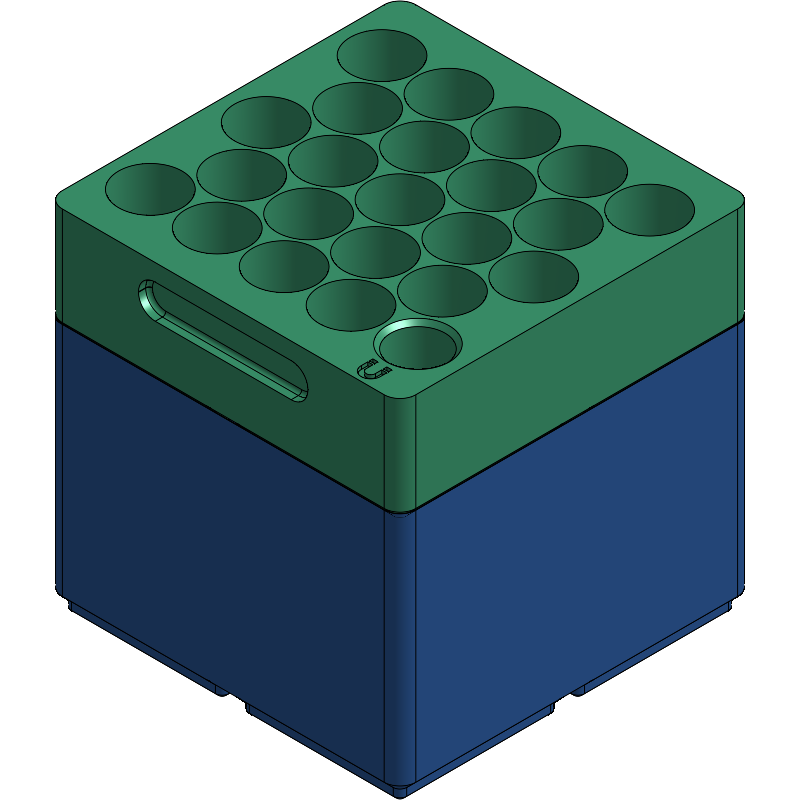
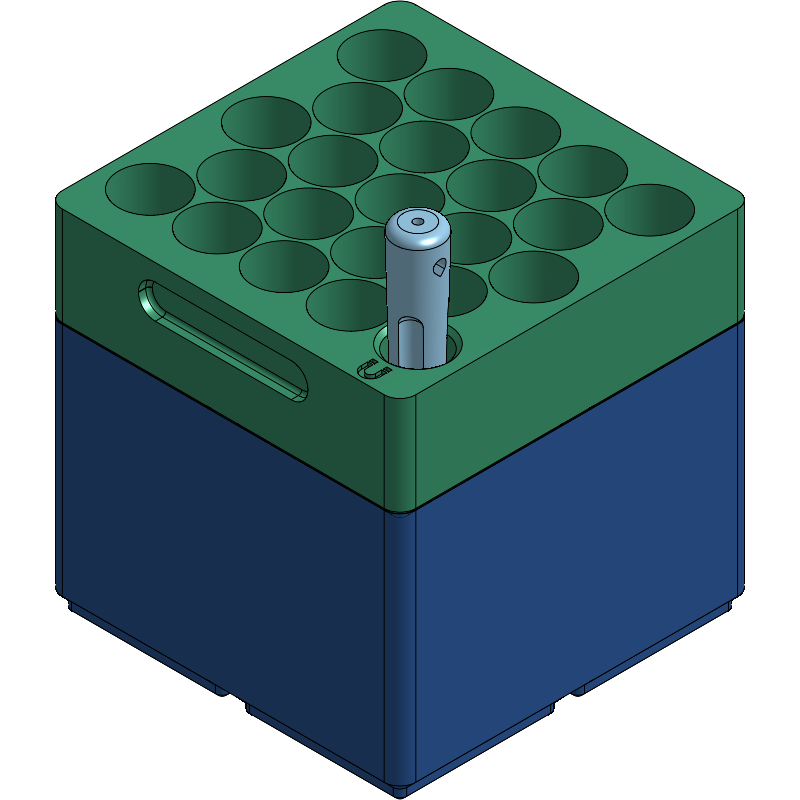
feat: integrate Battery Grabber (Main Body + Support Fins) into Onshape project and assembly

Changed region(s): [[0.4688, 0.25, 0.5625, 0.4688]]

diff --git a/src/build_onshape_model.py b/src/build_onshape_model.py
@@ -7,12 +7,47 @@ from pathlib import Path
 from typing import Any
 
 from src.featurescript_generator import generate_feature_studio_code
+from src.gridfinity_spec import DIMENSIONS, get_honeycomb_slots
 from src.onshape_client import OnshapeClient
 
 
 FEATURE_STUDIO_NAME = "Gridfinity AA Holder Generator"
 PART_STUDIO_NAME = "AA Battery Holder Bins"
+GRABBER_PART_STUDIO_NAME = "Battery Grabber"
 ASSEMBLY_NAME = "AA Battery Holder Assembly"
+
+GRABBER_SOURCE_DID = "c8113e21846b3e243f4047b0"
+GRABBER_SOURCE_WID = "85c21653a7b2a35730264c4a"
+GRABBER_SOURCE_EID = "efc09f3688cba75a14ed5637"
+
+
+def _get_grabber_assembly_transform() -> list[float]:
+    """Return 4x4 row-major transform (meters) seating Main Body magnet-down in the grabber pocket."""
+    grabber_slot = next(s for s in get_honeycomb_slots() if s.kind == "GRABBER")
+    tx_m = grabber_slot.x_mm / 1000.0
+    ty_m = grabber_slot.y_mm / 1000.0
+    # 180 deg rotation about X-axis: local Z=105mm (magnet head) -> Z=4mm floor; local Z=0mm (pommel) -> Z=109mm
+    tz_m = (DIMENSIONS["bottom_floor_z_mm"] + DIMENSIONS["grabber_length_mm"]) / 1000.0
+    return [
+        1.0,  0.0,  0.0, tx_m,
+        0.0, -1.0,  0.0, ty_m,
+        0.0,  0.0, -1.0, tz_m,
+        0.0,  0.0,  0.0, 1.0,
+    ]
+
+
+def _ensure_grabber_part_studio(client: OnshapeClient) -> str:
+    """Find or copy the Battery Grabber Part Studio (Main Body + Support Fins) into the document."""
+    for el in client.get_elements():
+        if el.get("elementType") == "PARTSTUDIO" and el.get("name") == GRABBER_PART_STUDIO_NAME:
+            return el["id"]
+    copied = client.copy_element_from_document(
+        source_did=GRABBER_SOURCE_DID,
+        source_wid=GRABBER_SOURCE_WID,
+        source_eid=GRABBER_SOURCE_EID,
+    )
+    return copied["id"]
+
 
 
 def _ensure_feature_studio(client: OnshapeClient) -> tuple[str, str]:
@@ -99,31 +134,61 @@ def build_and_publish() -> dict[str, Any]:
         )
         client.add_feature(client.partstudio_eid, payload)
 
-    # 5. Verify parts and populate Assembly cleanly (purging any stale instances first)
+    # 5. Ensure Battery Grabber Part Studio (Main Body + Support Fins) is in the document
+    grabber_eid = _ensure_grabber_part_studio(client)
+    grabber_parts = client.get_parts(grabber_eid)
+    grabber_main_pid = next(
+        p["partId"] for p in grabber_parts if p.get("name") == "Main Body"
+    )
+
+    # 6. Verify parts and populate Assembly cleanly (purging any stale instances first)
     parts = client.get_parts(client.partstudio_eid)
-    valid_part_ids = {p["partId"] for p in parts}
+    expected_keys = {(client.partstudio_eid, p["partId"]) for p in parts} | {
+        (grabber_eid, grabber_main_pid)
+    }
     existing_instances = client.get_assembly_instances(client.assembly_eid)
-    kept_part_ids: set[str] = set()
+    kept_keys: set[tuple[str, str]] = set()
     for inst in existing_instances:
         node_id = inst.get("id")
-        pid = inst.get("partId")
-        if pid in valid_part_ids and pid not in kept_part_ids:
-            kept_part_ids.add(pid)
+        key = (inst.get("elementId", ""), inst.get("partId", ""))
+        if key in expected_keys and key not in kept_keys:
+            kept_keys.add(key)
         elif node_id:
             client.delete_assembly_instance(node_id=node_id, aeid=client.assembly_eid)
     for part in parts:
-        pid = part["partId"]
-        if pid not in kept_part_ids:
-            client.add_assembly_instance(part_id=pid)
+        key = (client.partstudio_eid, part["partId"])
+        if key not in kept_keys:
+            client.add_assembly_instance(
+                part_id=part["partId"], part_studio_eid=client.partstudio_eid
+            )
+    if (grabber_eid, grabber_main_pid) not in kept_keys:
+        client.add_assembly_instance(
+            part_id=grabber_main_pid, part_studio_eid=grabber_eid
+        )
 
-    # 6. Export shaded view renders
+    # Seat Main Body in the front-right grabber pocket (magnet-end down, handle up)
+    updated_instances = client.get_assembly_instances(client.assembly_eid)
+    grabber_inst = next(
+        inst
+        for inst in updated_instances
+        if inst.get("elementId") == grabber_eid and inst.get("partId") == grabber_main_pid
+    )
+    client.transform_assembly_occurrence(
+        node_id=grabber_inst["id"],
+        transform=_get_grabber_assembly_transform(),
+        aeid=client.assembly_eid,
+    )
+
+    # 7. Export shaded view renders of the complete assembly
     renders_dir = Path(__file__).resolve().parent.parent / "docs" / "renders"
     renders_dir.mkdir(parents=True, exist_ok=True)
     for view_name, view_matrix in [
         ("isometric", "isometric"),
         ("top", "top"),
     ]:
-        view_data = client.get_shaded_view(client.partstudio_eid, view_matrix=view_matrix)
+        view_data = client.get_assembly_shaded_view(
+            client.assembly_eid, view_matrix=view_matrix
+        )
         images = view_data.get("images", [])
         if images:
             img_bytes = base64.b64decode(images[0])
@@ -131,7 +196,8 @@ def build_and_publish() -> dict[str, Any]:
 
     return {
         "feature_studio_eid": feid,
-        "parts": [p["name"] for p in parts],
+        "grabber_part_studio_eid": grabber_eid,
+        "parts": [p["name"] for p in parts] + [p["name"] for p in grabber_parts],
         "renders_dir": str(renders_dir),
     }
 

diff --git a/src/onshape_client.py b/src/onshape_client.py
@@ -272,3 +272,66 @@ class OnshapeClient:
         )
         resp.raise_for_status()
         return resp.json() if resp.text else {}
+
+    def copy_element_from_document(
+        self,
+        source_did: str,
+        source_wid: str,
+        source_eid: str,
+    ) -> dict[str, Any]:
+        payload = {
+            "documentIdSource": source_did,
+            "workspaceIdSource": source_wid,
+            "elementIdSource": source_eid,
+            "isGroupAnchor": True,
+        }
+        resp = self.session.post(
+            self._url(f"elements/copyelement/{self.did}/workspace/{self.wid}"),
+            json=payload,
+            timeout=30,
+        )
+        resp.raise_for_status()
+        return resp.json()
+
+    def transform_assembly_occurrence(
+        self,
+        node_id: str,
+        transform: list[float],
+        aeid: str | None = None,
+        is_relative: bool = False,
+    ) -> dict[str, Any]:
+        target_aeid = aeid or self.assembly_eid
+        payload = {
+            "isRelative": is_relative,
+            "occurrences": [{"path": [node_id]}],
+            "transform": transform,
+        }
+        resp = self.session.post(
+            self._url(f"assemblies/d/{self.did}/w/{self.wid}/e/{target_aeid}/occurrencetransforms"),
+            json=payload,
+            timeout=30,
+        )
+        resp.raise_for_status()
+        return resp.json() if resp.text else {}
+
+    def get_assembly_shaded_view(
+        self,
+        aeid: str | None = None,
+        view_matrix: str = "isometric",
+        output_height: int = 800,
+        output_width: int = 800,
+    ) -> dict[str, Any]:
+        target_aeid = aeid or self.assembly_eid
+        resp = self.session.get(
+            self._url(f"assemblies/d/{self.did}/w/{self.wid}/e/{target_aeid}/shadedviews"),
+            params={
+                "viewMatrix": view_matrix,
+                "outputHeight": output_height,
+                "outputWidth": output_width,
+                "pixelSize": 0,
+            },
+            timeout=60,
+        )
+        resp.raise_for_status()
+        return resp.json()
+

diff --git a/tests/test_onshape_verification.py b/tests/test_onshape_verification.py
@@ -64,11 +64,24 @@ def test_solid_parts_names_bounding_boxes_and_volumes():
         assert bodies[pid]["volume"][0] > 1e-5
 
 
-def test_assembly_contains_both_bin_instances():
+def test_assembly_contains_bins_and_battery_grabber():
     client = OnshapeClient.from_env()
-    parts = client.get_parts(client.partstudio_eid)
-    expected_part_ids = {p["partId"] for p in parts}
+    elements = {el["name"]: el["id"] for el in client.get_elements()}
+    assert "Battery Grabber" in elements
+    grabber_eid = elements["Battery Grabber"]
+
+    grabber_parts = {p["name"]: p["partId"] for p in client.get_parts(grabber_eid)}
+    assert set(grabber_parts.keys()) == {"Main Body", "Support Fins"}
+
+    grabber_bbox = client.get_part_bounding_box(grabber_eid, grabber_parts["Main Body"])
+    assert math.isclose((grabber_bbox["highX"] - grabber_bbox["lowX"]) * 1000.0, 12.0, abs_tol=0.1)
+    assert math.isclose((grabber_bbox["highZ"] - grabber_bbox["lowZ"]) * 1000.0, 105.0, abs_tol=0.1)
+
+    bin_parts = client.get_parts(client.partstudio_eid)
+    expected_keys = {(client.partstudio_eid, p["partId"]) for p in bin_parts} | {
+        (grabber_eid, grabber_parts["Main Body"])
+    }
     instances = client.get_assembly_instances()
-    instance_part_ids = {inst.get("partId") for inst in instances}
-    assert len(instances) == 2
-    assert instance_part_ids == expected_part_ids
+    instance_keys = {(inst.get("elementId"), inst.get("partId")) for inst in instances}
+    assert len(instances) == 3
+    assert instance_keys == expected_keys

diff --git a/README.md b/README.md
@@ -9,8 +9,9 @@ Parametric Onshape FeatureScript generator and verification suite for a compact,
 
 ## Onshape CAD Models
 
-- **[Gridfinity AA Compact (Bins & Assembly)](https://cad.onshape.com/documents/b5b3469743d50b565ee40c26/w/0474acc4041cedb16334c819/e/3877013e0cee0529c7476669)** — Contains the `AA Battery Holder Bins` Part Studio (`Bottom Bin` and `Top Bin`), `AA Battery Holder Assembly`, and the `Gridfinity AA Holder Generator` Feature Studio.
-- **[Magnetic Battery Grabber](https://cad.onshape.com/documents/c8113e21846b3e243f4047b0/w/85c21653a7b2a35730264c4a/e/efc09f3688cba75a14ed5637)** — Companion magnetic retrieval tool (`Ø11.95 mm` magnet tip, `105 mm` length) used to lift batteries vertically from the honeycomb pockets and stored in the front-right corner pass-through slot.
+- **[Gridfinity AA Compact — Bins (`AA Battery Holder Bins`)](https://cad.onshape.com/documents/b5b3469743d50b565ee40c26/w/0474acc4041cedb16334c819/e/3877013e0cee0529c7476669)** — Part Studio containing the `Bottom Bin` (`8U`) and `Top Bin` (`4U`), generated by the `Gridfinity AA Holder Generator` Feature Studio.
+- **[Gridfinity AA Compact — Battery Grabber (`Battery Grabber`)](https://cad.onshape.com/documents/b5b3469743d50b565ee40c26/w/0474acc4041cedb16334c819/e/508eaf072ebbed32aa268506)** — Integrated Part Studio containing the parametric magnetic retrieval tool (`Main Body`, `Ø12.0 × 105.0 mm`) and breakaway 3D print supports (`Support Fins`) ([standalone source doc](https://cad.onshape.com/documents/c8113e21846b3e243f4047b0/w/85c21653a7b2a35730264c4a/e/efc09f3688cba75a14ed5637)).
+- **[Gridfinity AA Compact — Complete Assembly (`AA Battery Holder Assembly`)](https://cad.onshape.com/documents/b5b3469743d50b565ee40c26/w/0474acc4041cedb16334c819/e/84c8a0fd2b9361f75c2d3a37)** — Complete assembly with `Bottom Bin`, `Top Bin`, and the `Battery Grabber` `Main Body` seated in its front-right corner slot.
 
 ## Key Features & Dimensions
 
